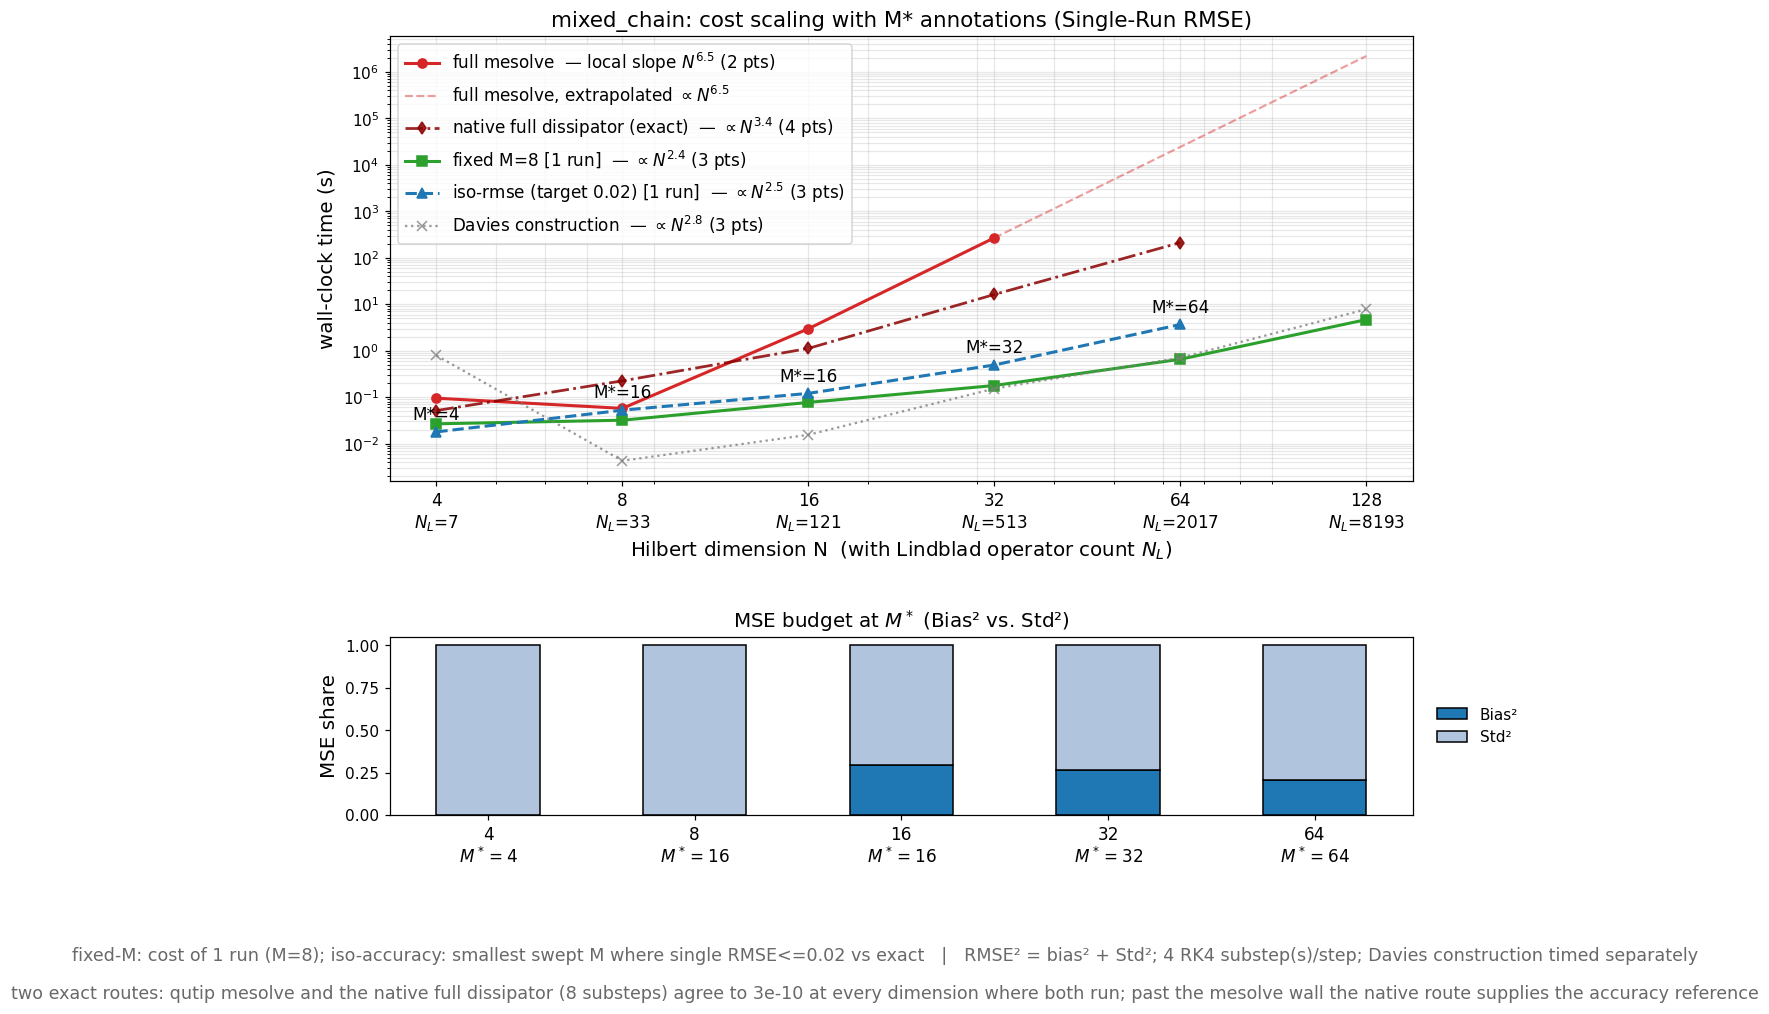
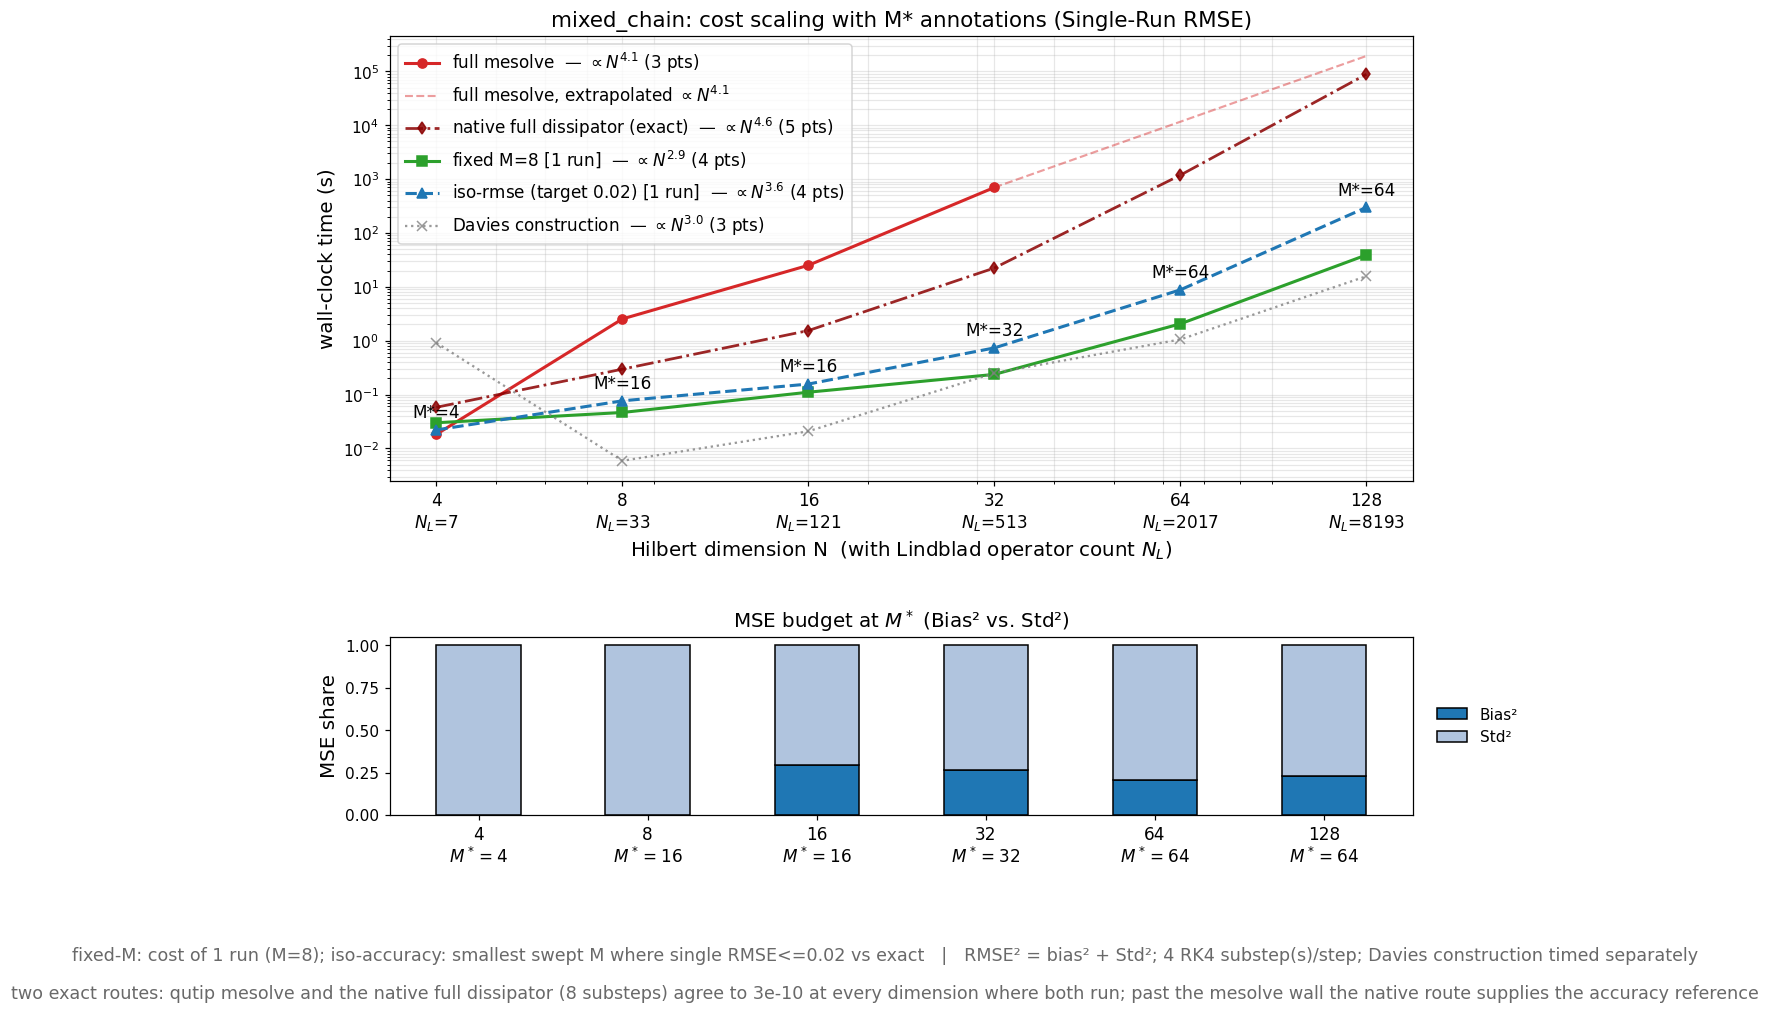
Result 2: System B complete to dimension 128, and every exponent moved up
Job 19592644 (52 h on landau42) closed the last gap in the document. System B's
exact curve was capped at dim 64 by --native-ref-max, chosen to avoid a 37 h
reference against a 24 h wall; roibq imposes no wall clock, so it was run in
full. The dim-128 reference took 24.6 h for 8,193 operators and certified
downward at 2.6e-9 -- the escalation path was not needed, only patience.

That point is the widest gap measured anywhere here: 88,443 s for the exact
solve against 39.1 s for one SLB solve, a factor of 2,263, up from 577 one
octave below.

Filling it moved every fitted exponent on the panel, upward in each case:

    exact (native)     N^3.35  ->  N^4.60   (4 -> 5 points)
    fixed M=8          N^2.36  ->  N^2.85   (3 -> 4 points)
    iso-accuracy       N^2.46  ->  N^3.63   (3 -> 4 points)

This is the fourth time extending a sweep has moved a quoted exponent and the
fourth time it moved up, so the document now says so plainly: these fits are
lower bounds until the curve stops growing, because the smallest dimensions are
dominated by overhead that does not scale and truncating a sweep early keeps
them weighted.

The executive summary quoted N^1.8 / N^2.9 / N^4.4 for this system, which
matched neither the new data nor the data committed before it -- those numbers
predate both. Replaced with the measured values. The mesolve exponent is dropped
from that sentence rather than restated: its fit spans dims 8-32 while the
[…]

diff --git a/benchmarks/BENCHMARKS.md b/benchmarks/BENCHMARKS.md
@@ -997,7 +997,7 @@ frontier (Result 3) sweeps the bias knob `M` for SLB against the noise knob
 
 > **Read in order, the benchmark results build one argument:**
 > 1. **Memory and Stiffness Walls (§5.2):** `mesolve` hits a hard 32 GB memory wall at dim 128 for the chain and dim 64 for the oscillator; the oscillator hits a fixed-step RK4 stiffness ceiling at dim 256.
-> 2. **Results 1 and 2:** accuracy versus bundle size, and cost scaling with dimension, regenerated under 0.6.4 for all three systems. On the mixed chain SLB at matched accuracy scales as $N^{1.8}$ against $N^{2.9}$ for the exact solver and $N^{4.4}$ for `mesolve`, so the advantage widens with size.
+> 2. **Results 1 and 2:** accuracy versus bundle size, and cost scaling with dimension, regenerated under 0.6.4 for all three systems. On the mixed chain, now complete to dim 128, SLB at matched accuracy fits $N^{3.6}$ against $N^{4.6}$ for the exact solver — about one power of $N$ apart, so the advantage widens with size. Measured directly: the exact solve costs $577\times$ one SLB solve at dim 64 and $2{,}263\times$ at dim 128.
 > 3. **Result 3 — the four-method comparison:** across three systems and six observables, SLB, `mcsolve`, and the exact solvers are compared head-to-head at dim 64. The advantage swings from 620x (oscillator energy) to 34x *worse* than `mcsolve` (mixed chain coherence). No single number captures the method; the section presents the full range.
 > 4. **Result 4:** iso-accuracy cost versus dimension.
 
@@ -1295,6 +1295,24 @@ $N^{2.5}$; the oscillator panel is included as the decisive visual of the exact
 solver's wall — `mesolve` at $N^{5.0}$ and the native route at $N^{3.1}$ both
 climbing into hours per solve while SLB stays near-flat — rather than for a
 fitted SLB exponent.
+
+**System B is now complete to dimension 128.** Its exact curve was previously
+capped at 64 by `--native-ref-max`, chosen to avoid a 37 h reference against a
+24 h wall; on `roibq`, which imposes no wall clock, it was run in full (job
+19592644, 52 h). The dim-128 reference alone took **24.6 hours** — 8,193
+operators, certified by a substep-halving check at $2.6\times10^{-9}$ — against
+**39.1 s** for one SLB solve at the same size. That single pair is the widest
+gap measured anywhere in this document: $2{,}263\times$, up from $577\times$
+one octave below.
+
+Filling that point moved every fitted exponent on the panel, upward in each
+case: the exact route from $N^{3.35}$ to $N^{4.60}$, fixed $M$ from $N^{2.36}$
+to $N^{2.85}$, and the iso-accuracy curve from $N^{2.46}$ to $N^{3.63}$. **This
+is the fourth time extending a sweep has moved a quoted exponent, and the fourth
+time it moved up.** The pattern is consistent and worth stating as a caution:
+these fits are lower bounds until the curve stops growing, because the smallest
+dimensions are dominated by overhead that does not scale, and truncating a sweep
+early keeps them weighted.
 
 **Where the oscillator's curves stop, and why it is stiffness rather than
 memory.** All three end together at dimension 128, and the limit is the
